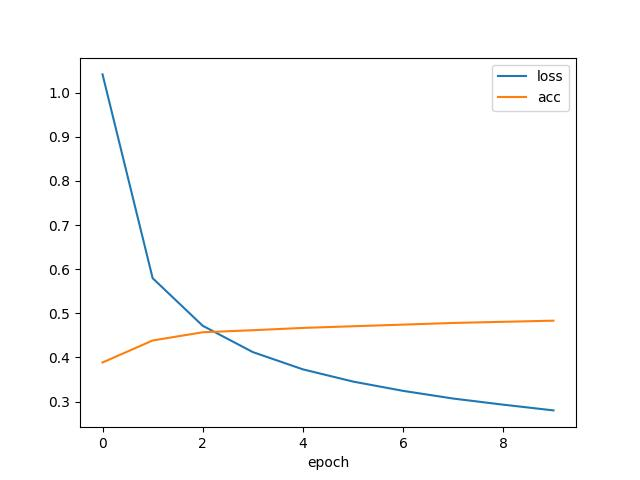
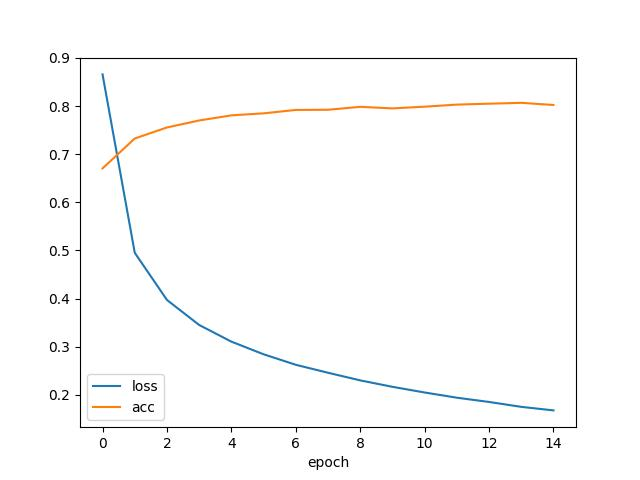
update

diff --git a/Chinese_word_segmentation_BiGRU.py b/Chinese_word_segmentation_BiGRU.py
@@ -15,7 +15,7 @@ device = torch.device("cuda:0" if torch.cuda.is_available() else "cpu")
 class WordSegmentationModel(nn.Module):
     def __init__(self, input_dim, hidden_size, num_gru_layers, vocab, dropout):
         super(WordSegmentationModel, self).__init__()
-        self.num_classes = 5
+        self.num_classes = 4
         self.embedding = nn.Embedding(len(vocab), input_dim, padding_idx=0)
         self.biGru = nn.GRU(input_size=input_dim,
                             hidden_size=hidden_size,
@@ -161,12 +161,13 @@ def evaluate(model, test_data_path, vocab, max_sequence_length, batch_size):
             y_pred = model(x)
             for y_p, y_t, x_t in zip(y_pred, y, x):
                 y_p = torch.argmax(y_p, dim=-1)
+                # print(y_p)
 
                 y_t = y_t.tolist()
-                while -100 in y_t:
-                    y_t.remove(-100)  # 移除所有-100
+                # while -100 in y_t:
+                #     y_t.remove(-100)  # 移除所有-100
                 y_p = y_p.tolist()
-                y_p = y_p[:len(y_t)]  # 截断
+                # y_p = y_p[:len(y_t)]  # 截断
 
                 # decode -> 词序列
                 sentence = sequence_to_text(x_t, vocab)
@@ -178,7 +179,7 @@ def evaluate(model, test_data_path, vocab, max_sequence_length, batch_size):
                 set_p = set(seg_p)
                 set_t = set(seg_t)
                 common = set_p.intersection(set_t)  # 求交集
-                correct_all.append(len(list(common)) / len(y_t))  # 计算每个句子的分词正确率  正确数 / 总词数
+                correct_all.append(len(list(common)) / len(seg_t))  # 计算每个句子的分词正确率  正确数 / 总词数
 
     logger.info(f'平均正确率: {np.mean(correct_all)}')
     return np.mean(correct_all)
@@ -207,7 +208,7 @@ def predict(model_path, vocab_path, input_strings, max_sequence_length, char_dim
 
 
 def main():
-    train_epochs = 10
+    train_epochs = 15
     batch_size = 125  # 125
     learning_rate = 5e-5
     log_step = 100
@@ -262,17 +263,16 @@ def main():
 
 if __name__ == '__main__':
     max_sequence_length = 256
-    char_dim = 100
-    hidden_size = 200
+    char_dim = 200
+    hidden_size = 400
     num_gru_layers = 6
-    dropout = 0.1
+    dropout = 0.3
 
-    main()
+    # main()
 
     input_strings = ["同时国内有望出台新汽车刺激方案",
-                     "沪胶后市有望延续强势",
-                     "经过两个交易日的强势调整后",
-                     "昨日上海天然橡胶期货价格再度大幅上扬"]
+                     "沪胶后市有望延续强势，经过两个交易日的强势调整后，昨日上海天然橡胶期货价格再度大幅上扬",
+                     "中国政府将继续奉行独立自主的外交政策，在和平共处五项原则的基础上努力发展同世界各国的友好关系"]
     predict("model.pth",
             "vocab.txt",
             input_strings,
